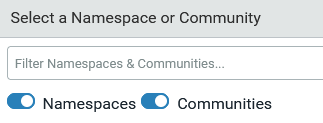
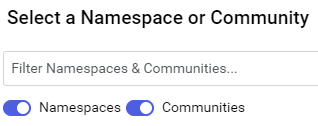
Updated graphic for UI regbranding
Added rebranded screenshot of toggle switches.

diff --git a/content/communities/share-unshare-streams.md b/content/communities/share-unshare-streams.md
@@ -14,7 +14,7 @@ To perform this procedure you must have already defined streams.
 
 1. In the left pane, select **Data Management** > **Sequential Data Store**.
 
-2. Optional: Click the **Change Namespace** button in the upper-right toolbar, then select the namespace that contains the stream you want to share.
+2. Optional: Click the **Change Namespace** button in the upper-right toolbar, then select the desired namespace.
 
 3. If it is not already selected, select **Streams** at the top left.
 
@@ -57,6 +57,8 @@ To perform this procedure you must have already defined streams.
 2. Optional: Click the **Change Namespace** button in the upper-right toolbar, then select the namespace that contains the stream you want to share.
 
 3. Use the toggle switches to filter streams by namespace or community.
+
+   ![Toggle switches](images\namespace-communities-switches.png)
 
 4. From the list, select a namespace or a community.
 
